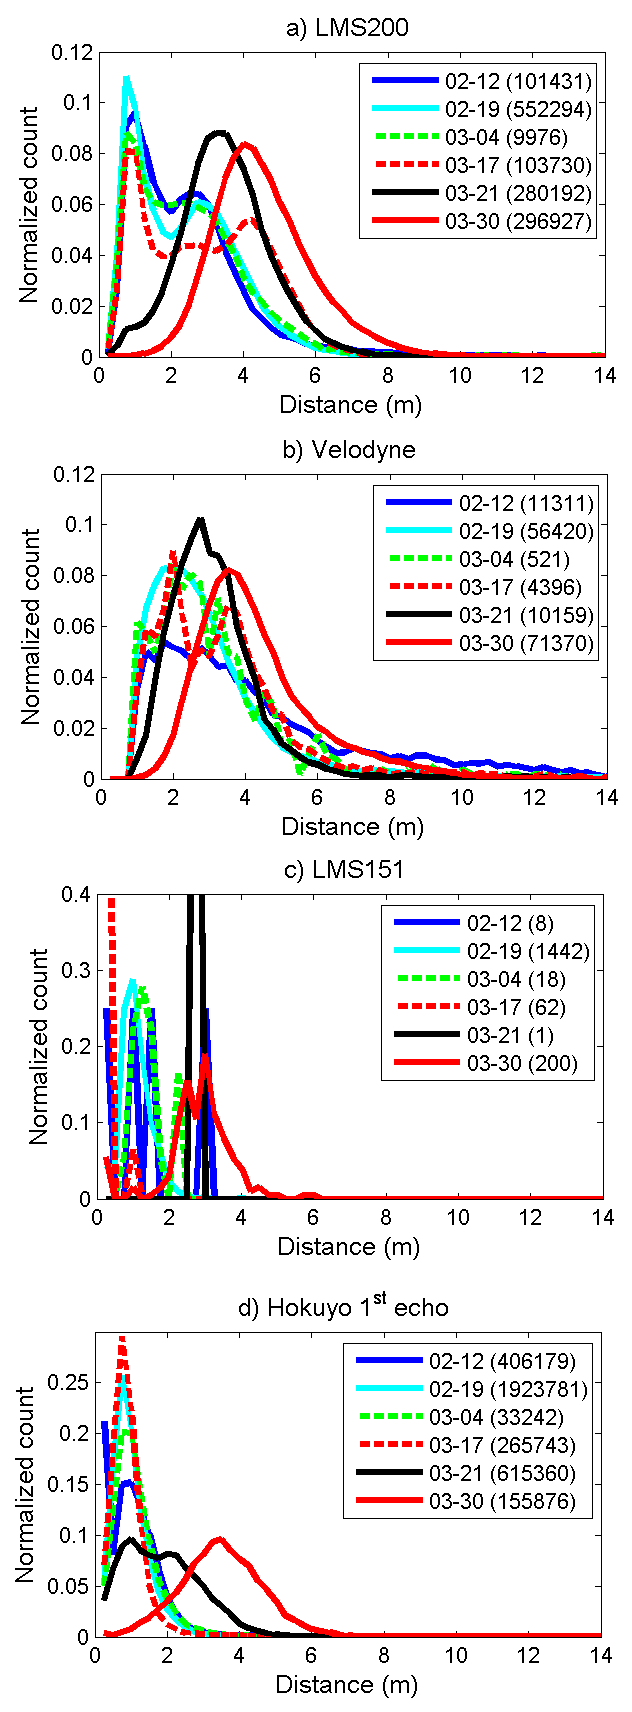
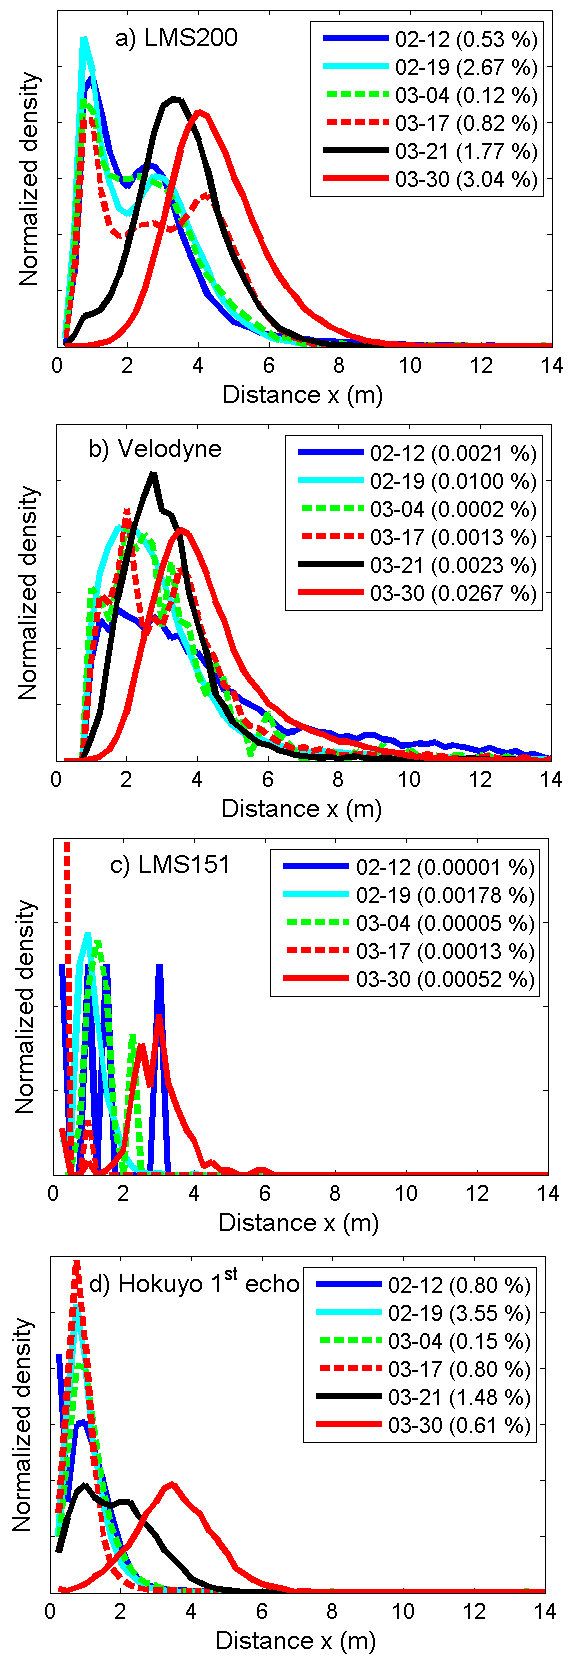
ajout d'un nouveau graphique + texte

diff --git a/Article/tex/data_analysis.tex b/Article/tex/data_analysis.tex
@@ -1,21 +1,81 @@
 \section{Data analysis}
 \label{sec:data-analysis}
 
-\subsection{Temporal analysis of Echos in Falling Snowflakes}
+\subsection{Selection of data}
+For each sensor, we selected a number of angles/rings that had a clear path towards the ground. These details are given in Tab.~\ref{tab:selectionScans}. The position of the ground in our scans was between $x$=\SI{15}{\meter} to $x$=\SI{22}{\meter}. To simplify analysis, we considered as a snowfall echo as any measurement which had a range reading $x<$\SI{14.5}{\meter}. As will be shown later in section~\ref{subsub:Histo}, this is a valid shortcut as the vast majority of those events happened for $x<$\SI{10}{\meter}. 
+
+\begin{table*}[htbp]
+    \centering
+    % \def\tabularxcolumn#1{m{#1}}
+    \begin{tabular}{|c|c|c|c|c|}
+        \hline
+        \textbf{Sensor}            & \textbf{Acquisition Frequency}  & \textbf{Selected beams/angles}  & \textbf{Selected rings}  & \textbf{Window size} \\\hline
+        SICK LMS200               & \SI{9.375}{\Hz}                      & 55 to 115                                    & N/A                         & ~\SI{106}{\second}       \\\hline
+        SICK LMS151               & \SI{25}{\Hz}                           & 310 to 220                                  & N/A                         & ~\SI{40}{\second}        \\\hline
+        Hokuyo UTM-30LX-EW  & \SI{20}{\Hz}                          & 440 to 590                                  & N/A                         & ~\SI{100}{\second}     \\\hline
+        Velodyne HDL-32E        & \SI{10}{\Hz}                          & -0.05 to 0.25 $rad$                     & 17 to 31                   & ~\SI{40}{\second}      \\\hline
+    \end{tabular}
+    \caption{Details for data used in analysis. The Window size is the temporal window used to calculate statistics during the temporal evolution of a storm.}
+    \label{tab:selectionScans}
+\end{table*}
+
+% ========================= Timing  ===================
+
+\subsection{Temporal analysis}
+Snowing is a temporally dynamic process, with large variation in snowing rates over its duration. Moreover, the snow physical characteristics (size, shape or reflectance) might vary significantly during a storm, affected by ambient conditions such as humidity level and temperature. On top of that, wind gusts might pull snow back up in the air or drive it sideways, affecting its effective fall rate. Consequently, one expect during these storms to see significant short, medium and long term variations in the fraction of LiDAR echoes corresponding to the falling snow.
+
+Fig.~\ref{fig:TimingSnow}, shows this fraction compared to all measurements as a function of time, for the six snowiest days of our dataset. To allow for better visualization, only the LMS200 and the Hokuyo's $1^{st}$ echo are plotted at their actual scale (1x): Others have been scaled up (from 30x to 200x), with this scaling factor reported in the legend. These results are averaged over small time windows (around 1~minute, detailed in Tab.~\ref{tab:selectionScans}), to provide for a smoother graph.
+
+Our first conclusion based on these graphs is that some sensors are more sensitive than others. The most sensitive device was the older LMS200, first introduced in the mid-2000. Its technical description~\cite{LMS200Manual} indicates that ``Raindrops and snow-flakes are cut out using pixel-oriented evaluation''. However, no further details are given for the algorithm. For the most intense snowstroms (Fig~\ref{fig:TimingSnow}. b) 02-19, d) 03-17, e) 03-21 and f) 03-30), it peaked at around 15\%, for averaging windows of \SI{106}{\second}. A snapshot of four consecutive scans overlaid in the same plot can be seen in Fig.~\ref{fig:LMS200_4Scans_Feb19}, corresponding to one of those intense episode.
+
+or by design for the multi-echo Hokuyo. Indeed, 
+
+\begin{figure}[th]
+    \centering
+    \includegraphics[width=0.95\linewidth]{./img/LMS200_4Scans_Feb19.png}
+    \caption{Four overlaid consecutive scans for the LMS200 sensor, taken in the 02-19 dataset. Each symbol correspond to a particular scan. The curved line at the top correspond to the snow surface on the ground. One can see the rapid variation of the snowflake echoes between scans, and how they are mostly limited to a range $x<$\SI{5}{\meter} .}
+    \label{fig:LMS200_4Scans_Feb19}
+\end{figure}
+
+
+A significant side benefit of those more sensitive sensors is that hey are able to record the timeline of a snow storm at a temporally fine-grained. This is something that is not possible with traditional snow measuring equipment, which can only report accumulation over long period of times. Indeed, for b) we see a pretty steady snowfall from t=1 to t=4 hours, with a peak around t=1.25 hours. This could be helpful in modeling a snowstorm in a simulator. 
+
+
+
+For the Hokuyo, we plot two data: 1st and last echo. We do this o allow for fair comparison, as this device is, by design, returning echos in the falling snow. Moreover, it allows us to have an idea of how much  snow is actually falling. Note that however there was instance (daytime with sun) where the sensor didn't return  echos at all. We suspect that this is sue to the fact that the power level used
+
 \begin{figure*}[th]
     \centering
-    \includegraphics[width=0.95\linewidth]{./img/TimingSnow.png}
+    \includegraphics[width=0.98\linewidth]{./img/TimingSnow.png}
     \caption{Timing for snow. More to come.}
     \label{fig:TimingSnow}
 \end{figure*}
 
 
+% ========================= Histograms ===================
 \subsection{Distribution of Echos in Falling Snowflakes, as a function of distance}
+\label{subsub:Histo}
+
+Fig. \ref{fig:Histograms} shows the histogram distribution of the snowflake echoes, as a function of distance. In some ways, they give us an approximate probability density function of these echoes that could be used to model such sensors. To allow for ease of comparison, these histograms have all been normalized by their total area. The numbers in brackets in the legend indicate the fraction of echoes in the snowflakes, compared to the total number of data points. The general shape (for the most part) of these histograms is close to a log-normal distribution, with the exception of the LMS200 for a number of dates (02-12 through 03-17), which seems to follow a sum of log-normal distributions. This indicate that a simple probabilistic model can be derived for these sensors.
+%, such as
+%\begin{equation}
+%p(e|x,w)=p(e|w)p(e|x)
+%\end{equation}
+%where p(e|x) would be the log-normal distribution and p(e|w) the probability of having snow affecting
+
+These histograms can be broken down into two main regions of interest. The first half (located from the left hand side of the peak) shows an exponential increase in snowflake echoes as a function of the distance x. We attribute this phenomenon to the shielding effect of the building from the falling snow. This phenomenon would be more or less absent on an autonomous vehicle, and thus we do not consider it much in our analysis. At the peak, this shielding effect effectively vanishes. The right hand side of the peak shows a gaussian-type exponential decrease of the probability of echos in falling snow. This could be explained by the greatly reduced light intensity (1/$x^2$) of the return, coupled with the decreased light flux/intensity if one assume constant beam size on the way out. This is great news, 
+
+For the LMS151, the amound of data is not sufficient to draw much conclusion on this distribution except for the fact that there was virtually no events passed 4.
+
+
 \begin{figure}[th]
     \centering
-    \includegraphics[width=0.95\linewidth]{./img/Histograms.png}
-    \caption{Timing for snow. More to come.}
+    \includegraphics[width=0.80\linewidth]{./img/Histograms.png}
+    \caption{Histograms of echoes in falling snow during important snowfall days, as a function of distance $x$ reported by the sensor. Each histogram has been normalized by its area, for ease of comparison. The numbers in brackets are the fraction of data points in the complete data set that correspond to snowflake echoes. Note that for the 03-21 dataset, the LMS151 was not working properly: thus no data is included for that day.}
     \label{fig:Histograms}
 \end{figure}
 
+Results show that laser might need to be mounted farther away from the front of the car, so as to avoid the first 1-2 meters that contain significant amount of echos. Or adjust threshold as a function of speed.
 
+% ======================= Sunlight =====================
+\subsection{Impact of sunlight on Hokuyo}
